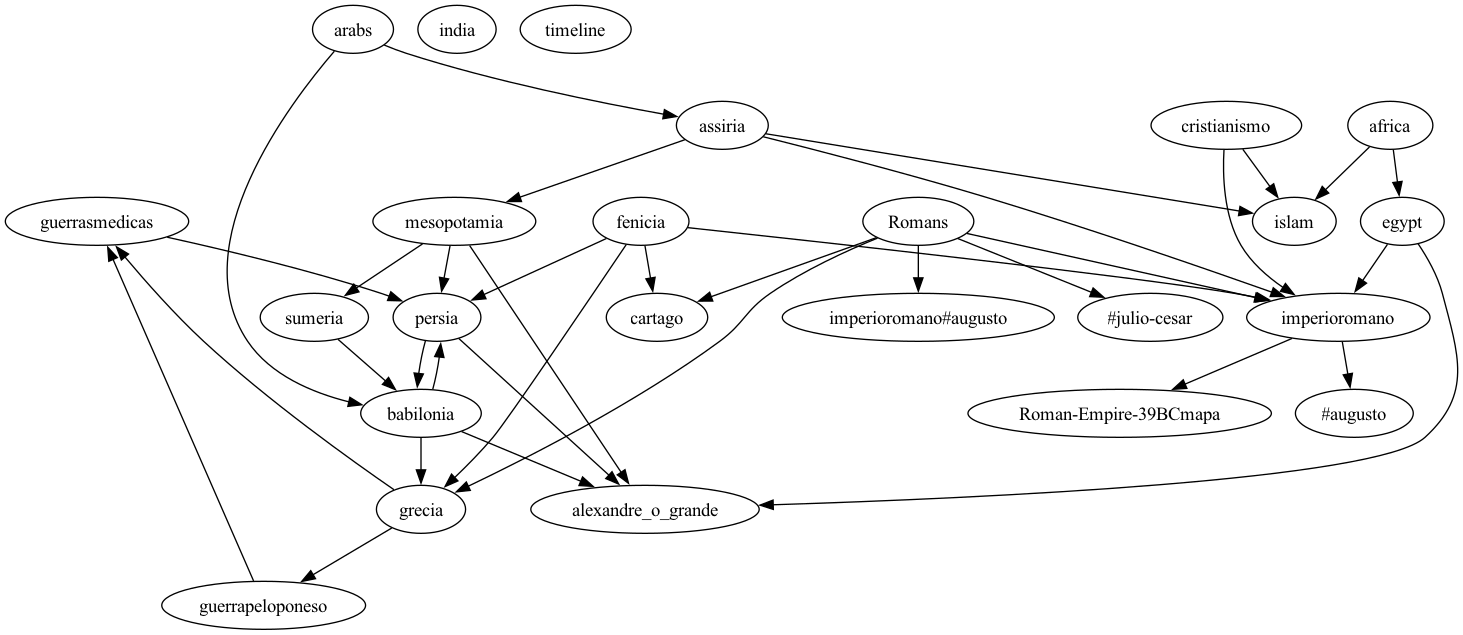
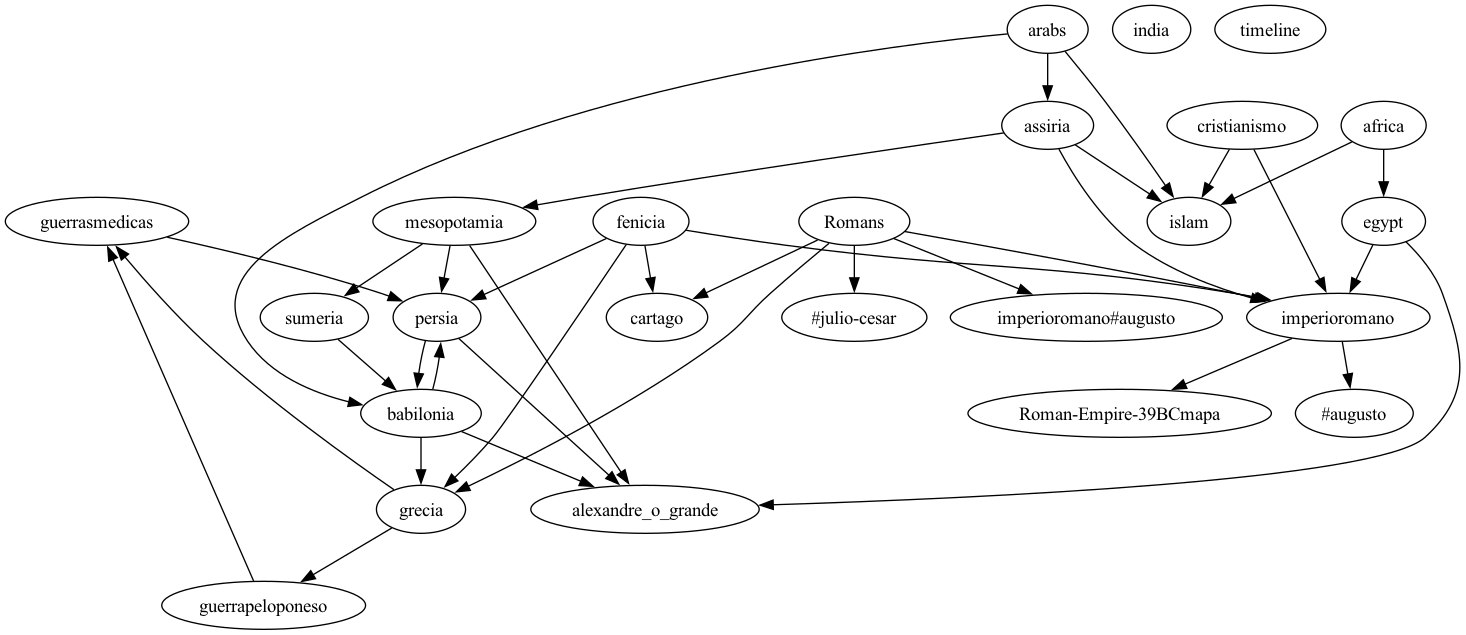
feat: more details on arabs ::by sergio giraldo @ 20241206T2147CET, gpg signed

diff --git a/docs/arabs.md b/docs/arabs.md
@@ -2,4 +2,26 @@
 
 The Arabs  are an ethnic group mainly inhabiting the Arab world in West Asia and North Africa.
 
+## Pre-Islamic Period
+
 The nomads of Arabia have been spreading through the desert fringes of the Fertile Crescent since at least 3000 BCE, but the first known reference to the Arabs as a distinct group is from an [Assyrian](assiria) scribe recording a battle in 853 BCE. The history of the Arabs during the pre-Islamic period in various regions, including Arabia, Levant, Mesopotamia, and Egypt. The Arabs were mentioned by their neighbors, such as [Assyrian](assiria) and [Babylonian](babilonia) Royal Inscriptions from 9th to 6th century BCE, mention the king of Qedar as king of the Arabs and King of the Ishmaelites.
+
+Some of the settled communities developed into distinctive civilizations. Information about these communities is limited and has been pieced together from archaeological evidence, accounts written outside of Arabia, and Arab oral traditions that were later recorded by Muslim historians. Among the most prominent communities were the Thamud, who arose around 3000 BCE and lasted to around 300 CE; and the earliest Semitic-speaking civilization in the eastern part was Dilmun, which arose around the end of the 4th millennium BCE and lasted to around 600 CE. Additionally, from around the second half of the 2nd millennium BCE, Southern Arabia was the home to a number of kingdoms, such as the Sabaeans and the Minaeans, and Eastern Arabia was inhabited by Semitic-speaking peoples who presumably migrated from the southwest, such as the so-called Samad population. From 106 CE to 630 CE, Arabia's most northwestern areas were controlled by the Roman Empire, which governed it as Arabia Petraea. A few nodal points were controlled by the Iranian peoples, first under the Parthians and then under the Sasanians.
+
+Religion in pre-Islamic Arabia was diverse; although polytheism was prevalent, monotheism was still a notable practice among some of the region's inhabitants, such as the Jewish tribes. In addition to Arabian paganism, other religious practices in the region included those of the ancient Semitic religions, the Abrahamic religions (of which the emerging Islam would become a part), and the Iranian religions.
+
+## First Islamic State
+
+The first [Islamic](islam) State, also known as State of Medina, was the first Islamic state established by Islamic prophet Muhammad in Medina in 622 under the Constitution of Medina. It represented the political unity of the Muslim Ummah (nation). After Muhammad's death, his companions known as the Rightly Guided Caliphs (Rashidun) founded the Rashidun Caliphate (632–661), which began massive expansion and motivated subsequent Islamic states, such as the Umayyad Caliphate (661–750) and Abbasid caliphate (750–1258).
+
+The Islamic prophet Muhammad came to the city of Medina following the migration of his followers in what is known as the Hijrah (migration to Medina) in 622. He had been invited to Medina by city leaders to adjudicate disputes between clans from which the city suffered. He left Medina to return to and conquer Mecca in December 629.
+
+### Conquest of Mecca and subsequent military expeditions
+
+Muhammad and the sahaba advancing on Mecca. The angels Gabriel, Michael, Israfil and Azrael, are also in the painting.
+Main articles: Conquest of Mecca and Muhammad after the occupation of Mecca
+In Ramadan 8 AH (around October 629), Muhammad left for Mecca with approximately 10,000 of his sahaba aiming to capture the city from the Quraysh following a violation of the terms of the Treaty of Hudaybiyyah by the Banu Bakr, who were allies of the Quraysh, after they attacked the Banū Khuzaʽah, allies of the Muslims. The Treaty had called for a 10-year truce and ceasefire between the Muslims, the Quraysh and their respective allies. Muhammad arrived at Mecca a week from his departure, dividing the army into four regiments, each entering Mecca from one point of entry. The conquest was largely bloodless and the Quraysh eventually surrendered without putting up a fight.
+
+Following the Conquest of Mecca, Muhammad was informed of a military threat from the confederate tribes of Hawazin who were readying an army twice as strong as Muhammad and the sahaba. They were joined by the Thaqif inhabiting in the city of Ta’if who had adopted an anti-Meccan policy due to the decline of the prestige of Meccans. Both tribes were subsequently defeated in the Battle of Hunayn. Muhammad subsequently launched an expedition against the Byzantine Empire and their Ghassanid allies in the north in the Expedition of Tabuk. Although Muhammad did not make contact with hostile forces at Tabuk, he received the submission of some of the local chiefs of the region. Following this expedition, the Banu Thaqif and other Bedouins submitted to Muhammad in order to be safe from attack and to benefit from the bounty of the wars.
+
+Following the Conquest of Mecca and these events, Muhammad would perform the Farewell Pilgrimage and return to Medina, where he would fall ill for several days with a headache and weakness. He died on Monday, June 8, 632, in the city, being buried where the home of his wife Aisha had been. It has since been modified several times and is now enclosed under the Green Dome within Al-Masjid al-Nabawi in Medina.
